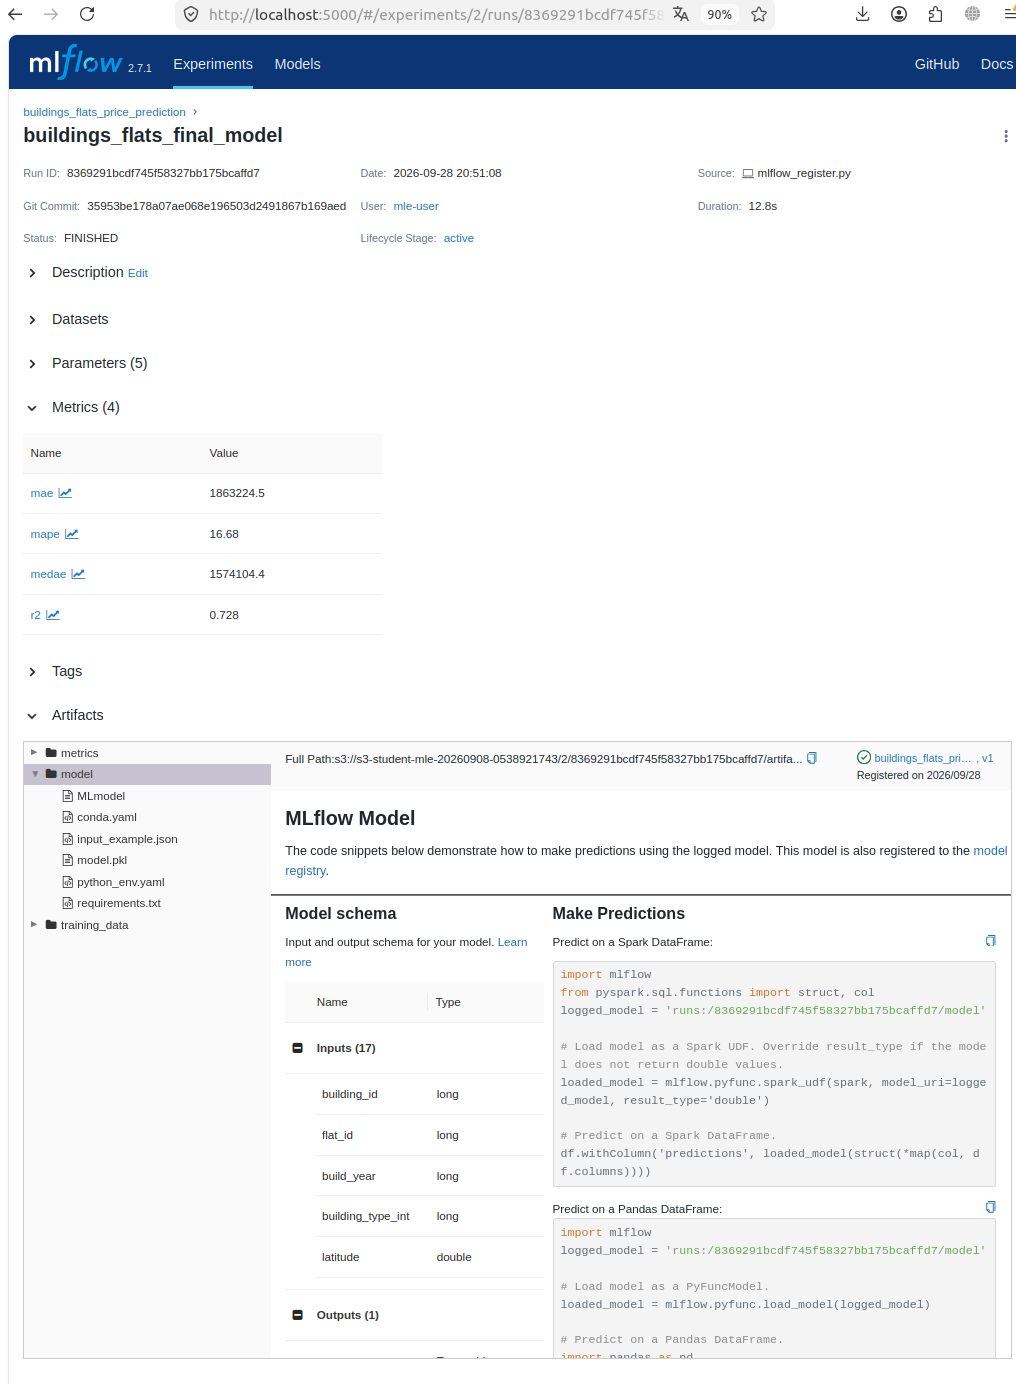
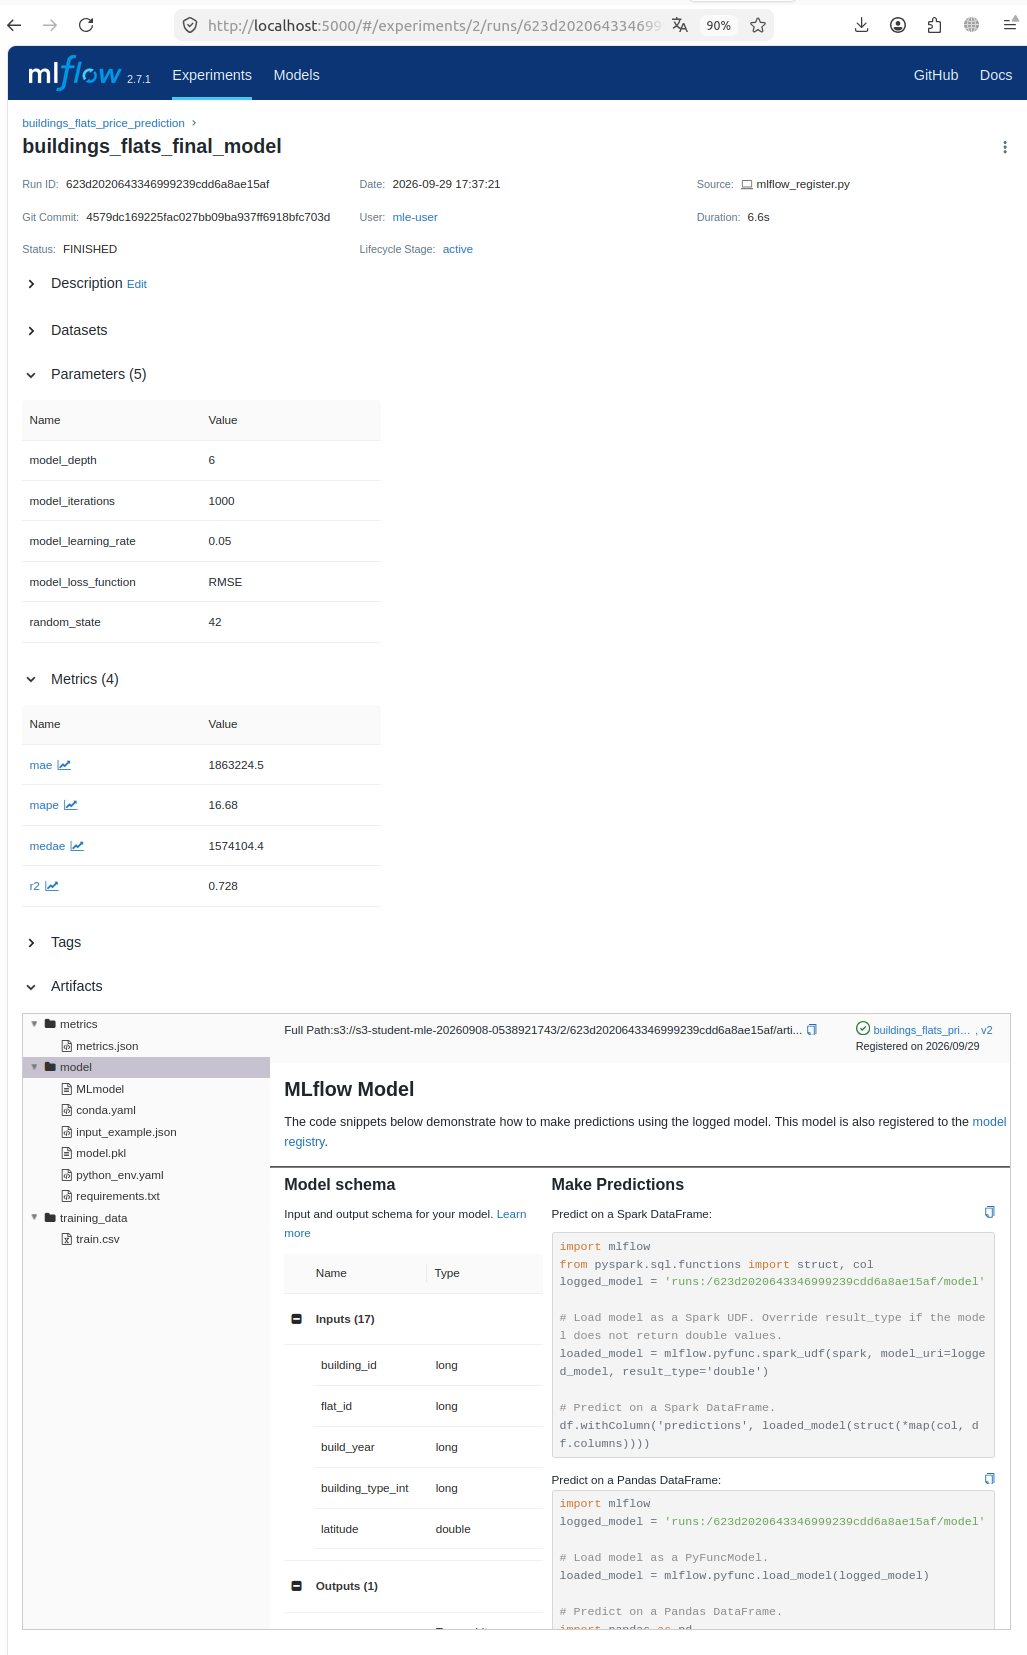
Внесены исправления в скрипт регистрации эксперимента: исправлено логирование параметров

diff --git a/mlflow_server/scripts/mlflow_register.py b/mlflow_server/scripts/mlflow_register.py
@@ -47,9 +47,9 @@ with mlflow.start_run(run_name='buildings_flats_final_model') as run:
     model_params = params['model']
     mlflow.log_param('model_depth', model_params['depth'])
     mlflow.log_param('model_iterations', model_params['iterations'])
-    mlflow.log_param('model_learning_rate', model_params['iterations'])
-    mlflow.log_param('model_loss_function', model_params['iterations'])
-    mlflow.log_param('random_state', model_params['iterations'])
+    mlflow.log_param('model_learning_rate', model_params['learning_rate'])
+    mlflow.log_param('model_loss_function', model_params['loss_function'])
+    mlflow.log_param('random_state', model_params['random_state'])
 
     # Логируем метрики валидации (по одной)
     for key, value in metrics.items():
